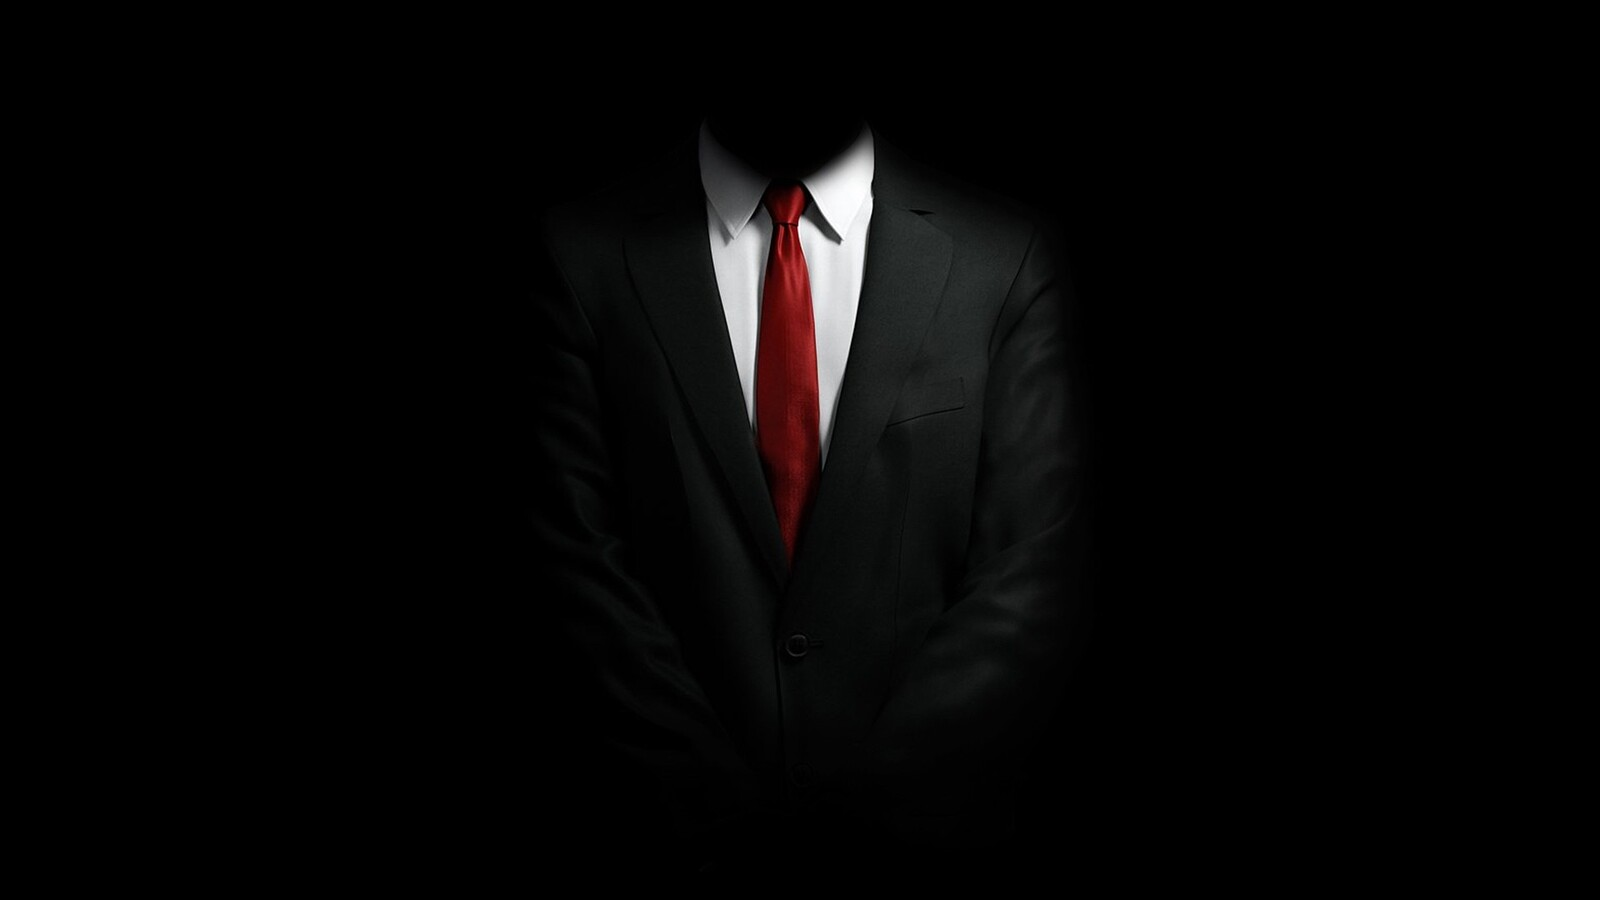
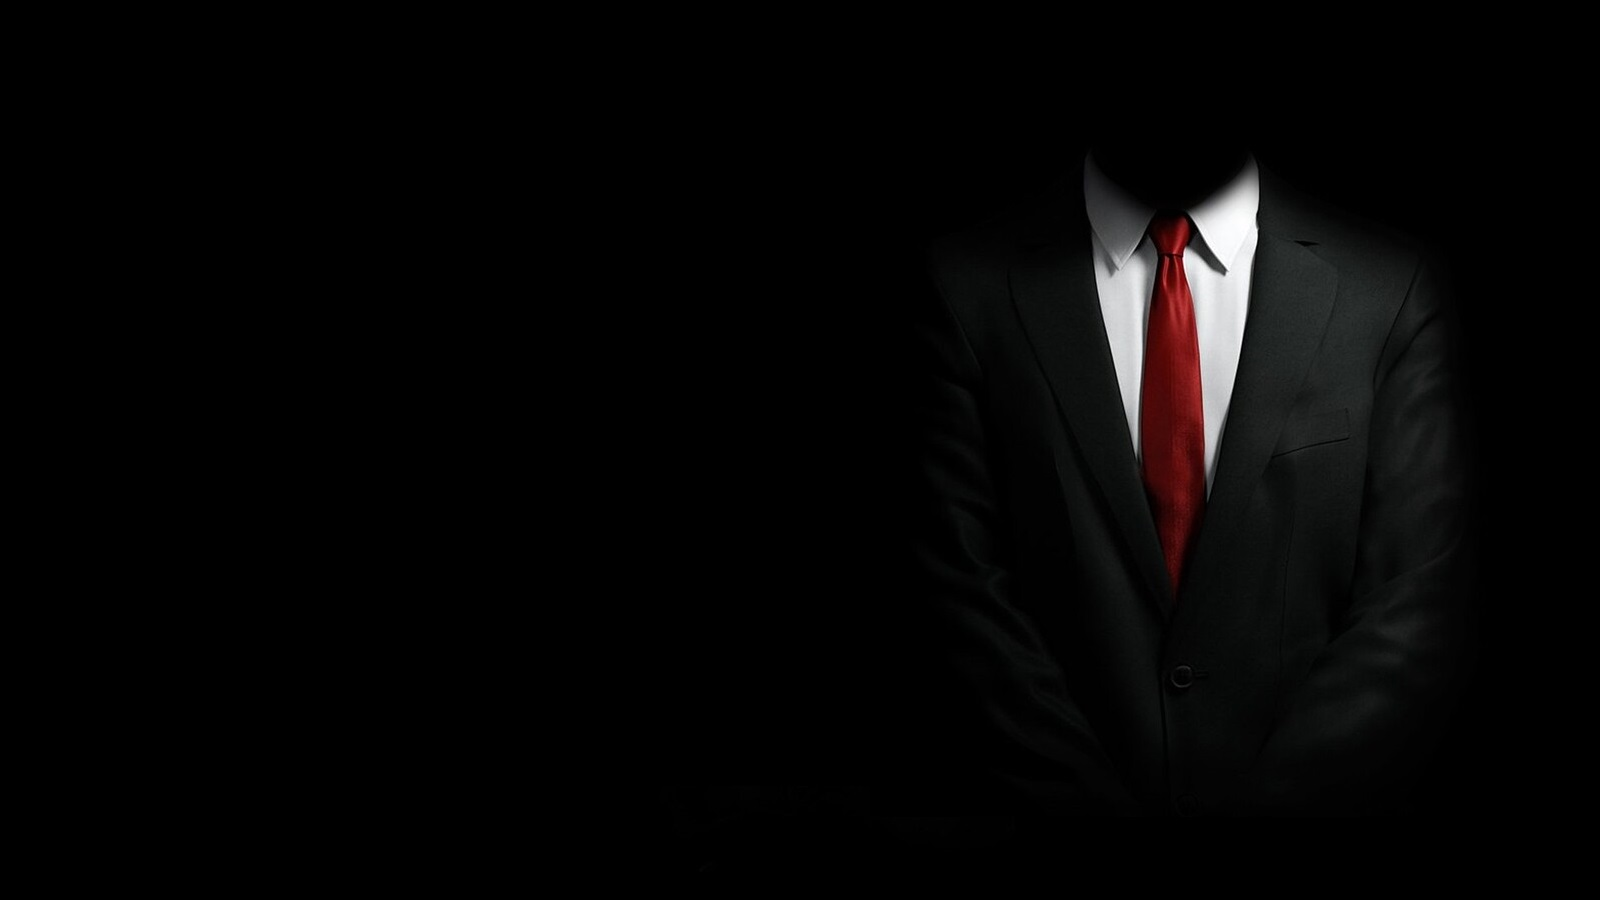
edited bg-img + bg-pos = fixed

Changed region(s): [[0.4375, 0.1556, 0.9062, 0.6533], [0.8438, 0.6844, 0.9062, 0.7467], [0.625, 0.6533, 0.6562, 0.6844]]

diff --git a/assets/css/style.css b/assets/css/style.css
@@ -51,7 +51,7 @@ section.header {
     height: 130vh;
     background-image: url(../img/background.jpg);
     background-size: cover;
-    background-position-x: 270px;
+    background-position: fixed;
 }
 
 section.header .header-content {
